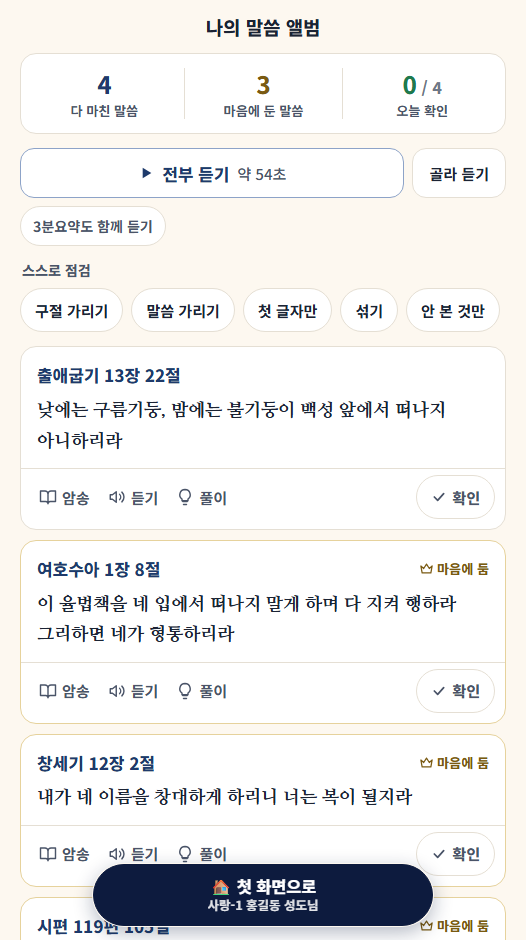
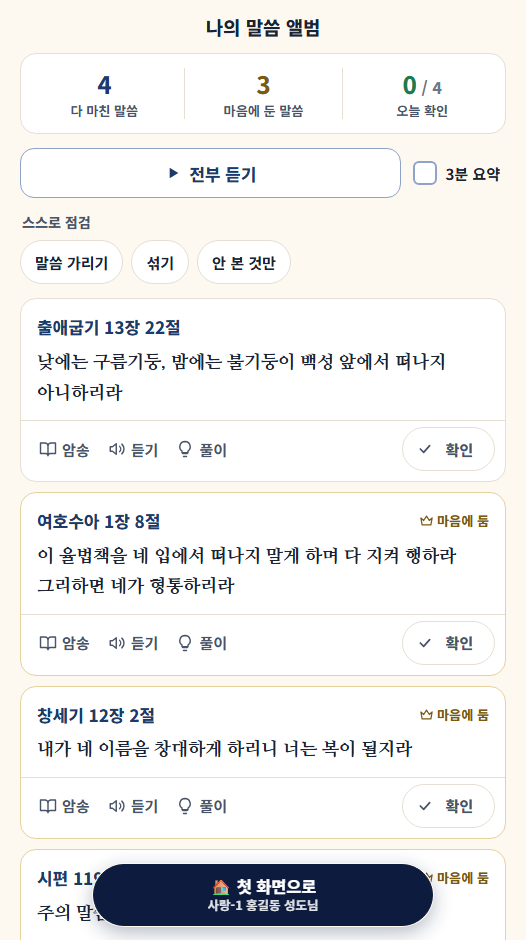
fix(앨범 A안): 단추는 늘 한 줄 · 구절 가리기·첫 글자만·골라 듣기·「약 N분」 뺌 · 「☐ 3분 요약」 체크 상자(친구) — v3.618
- albumFitRow/albumFitAll: 그린 뒤 실제로 재서 넘치면 여백·아이콘 → 글씨 한 단계 → (그래도면) 접기
- 확인 칩은 「확인함」·「확인」을 한 칸에 겹쳐 폭을 고정
- 설명서·guide ⑦ 문장과 guide 앨범 사진을 새 모양으로
- 확인: 폭 5가지 × 글씨 3단계 × 켬/끔 22조건 — 세 줄 한 줄 · 넘침·잘림·오류 0

diff --git a/style.css b/style.css
@@ -6349,35 +6349,44 @@ html[data-fs="xl"] .nv-ch-sub { font-size: 1.04rem; }
 .album-a .aa-n small { font-size: 1rem; font-weight: 800; color: #6e7787; }
 .album-a .aa-stat-l { font-size: .82rem; font-weight: 600; line-height: 1.35; color: #4a5468; word-break: keep-all; }
 /* 듣기 줄 — 「전부 듣기」가 주인공(남색 테두리) · 옆에 「골라 듣기」 · 아래 작은 칩(3분요약 · 고르기 중엔 전체 선택/해제) */
-.album-a .aa-play-row { display: flex; gap: 8px; }
+.album-a .aa-play-row { display: flex; flex-wrap: nowrap; gap: 8px; }
+.album-a .aa-play-row.aa-wrap { flex-wrap: wrap; }
 .album-a .aa-go {
-  flex: 1 1 auto; min-width: 0; min-height: 50px; margin: 0; padding: 6px 12px;
+  flex: 1 0 auto; min-height: 50px; margin: 0; padding: 6px 12px; white-space: nowrap;
   border: 1.5px solid #8da3c8; border-radius: 14px; background: #fff; color: #1e3a6b;
   display: flex; flex-wrap: wrap; align-items: center; justify-content: center; column-gap: 8px; row-gap: 0;
   font-family: inherit; font-size: 1.06rem; font-weight: 800; cursor: pointer;
 }
 .album-a .aa-go:hover { background: #eaf0f9; }
 .album-a .aa-play-ic { width: 16px; height: 16px; flex: none; }
-.album-a .aa-go .ab-dur { font-size: .94rem; font-weight: 500; opacity: 1; color: #4a5468; }
-.album-a .aa-pick {
-  flex: none; min-height: 50px; margin: 0; padding: 0 16px;
-  border: 1px solid #e5dfd4; border-radius: 14px; background: #fff; color: #1b2333;
-  font-family: inherit; font-size: .94rem; font-weight: 700; cursor: pointer; white-space: nowrap;
+/* ☐ 3분 요약 — 「전부 듣기」 옆 체크 상자(친구 2026-10-13). 켜면 전부 듣기에 설교 3분요약을 끼워 넣는다(albumWithSummary · 이것만 저장) */
+.album-a .aa-sum {
+  flex: none; min-height: 50px; margin: 0; padding: 0 6px 0 4px; border: 0; background: transparent; color: #1b2333;
+  display: inline-flex; align-items: center; gap: 8px; font-family: inherit; font-size: .94rem; font-weight: 700; cursor: pointer; white-space: nowrap;
 }
-.album-a .aa-play-opts { display: flex; flex-wrap: wrap; gap: 8px; margin-top: 8px; }
-.album-a .aa-opt {
-  min-height: 40px; margin: 0; padding: 0 12px; border: 1px solid #e5dfd4; border-radius: 999px; background: #fff; color: #4a5468;
-  display: inline-flex; align-items: center; gap: 4px; font-family: inherit; font-size: .88rem; font-weight: 700; cursor: pointer; white-space: nowrap;
+.album-a .aa-box {
+  flex: none; width: 24px; height: 24px; border: 2px solid #8da3c8; border-radius: 6px; background: #fff;
+  display: inline-flex; align-items: center; justify-content: center; color: #fff;
 }
+.album-a .aa-box svg { width: 16px; height: 16px; stroke-width: 3.2; }
+.album-a .aa-sum.on .aa-box { background: #1e3a6b; border-color: #1e3a6b; }
+.album-a .aa-play-row.aa-tight .aa-go { padding: 0 10px; }
+.album-a .aa-play-row.aa-tighter .aa-sum { gap: 6px; padding: 0 2px; }
 /* 「스스로 점검」 — 켜면 남색 + ✓ (켬/끔은 색만이 아니라 ✓ 로도 가른다) */
 .album-a .aa-sec-title { margin: 0 0 8px; padding: 0 2px; font-size: .88rem; font-weight: 800; color: #4a5468; }
-.album-a .aa-toggles { display: flex; flex-wrap: wrap; gap: 8px; }
+.album-a .aa-toggles { display: flex; flex-wrap: nowrap; gap: 8px; }
+.album-a .aa-toggles.aa-wrap { flex-wrap: wrap; }
+.album-a .aa-toggles .aa-tg { flex: none; }
+.album-a .aa-toggles.aa-tight { gap: 6px; }
+.album-a .aa-toggles.aa-tight .aa-tg { padding: 0 10px; }
+.album-a .aa-toggles.aa-tighter .aa-tg { padding: 0 7px; gap: 2px; font-size: .86rem; }
+.album-a .aa-toggles.aa-tighter .aa-tg svg { display: none; }   /* 켜짐은 바탕·테두리(밝기 차이)로도 보인다 */
 .album-a .aa-tg {
   min-height: 44px; margin: 0; padding: 0 14px; border: 1.5px solid #e5dfd4; border-radius: 999px; background: #fff; color: #1b2333;
   display: inline-flex; align-items: center; gap: 4px; font-family: inherit; font-size: .94rem; font-weight: 700; cursor: pointer; white-space: nowrap;
 }
-.album-a .aa-tg.on, .album-a .aa-pick.on, .album-a .aa-opt.on { border-color: #1e3a6b; background: #eaf0f9; color: #1e3a6b; }
-.album-a .aa-tg svg, .album-a .aa-opt svg { width: 15px; height: 15px; stroke-width: 3; flex: none; }
+.album-a .aa-tg.on { border-color: #1e3a6b; background: #eaf0f9; color: #1e3a6b; }
+.album-a .aa-tg svg { width: 15px; height: 15px; stroke-width: 3; flex: none; }
 .album-a .aa-hint { margin: 0; padding: 0 2px; font-size: .94rem; line-height: 1.5; color: #4a5468; word-break: keep-all; }
 /* 카드 */
 .album-a .album-grid { gap: 10px; margin: 0; }
@@ -6405,18 +6414,15 @@ html[data-fs="xl"] .nv-ch-sub { font-size: 1.04rem; }
 }
 /* 가린 곳 — 흐림 대신 점선 칸(시안 A). 카드를 누르거나(.peek) 확인하면(.checked) 다시 보인다 */
 .album-a .aa-ph { display: none; }
-.album-a .aa-ref-ph { width: 150px; max-width: 60%; height: 24px; border-radius: 6px; border: 1.5px dashed #6e7787; }
 .album-a .aa-text-ph {
   margin: 8px 16px 12px; min-height: 56px; padding: 6px 10px; border-radius: 10px; border: 1.5px dashed #6e7787;
   align-items: center; justify-content: center; text-align: center; font-size: .94rem; line-height: 1.5; color: #4a5468; word-break: keep-all;
 }
-.album-a .album-grid.hide-ref .album-card:not(.peek):not(.checked) .album-ref,
 .album-a .album-grid.hide-text .album-card:not(.peek):not(.checked) .album-text { display: none; }
-.album-a .album-grid.hide-ref .album-card:not(.peek):not(.checked) .aa-ref-ph { display: block; }
 .album-a .album-grid.hide-text .album-card:not(.peek):not(.checked) .aa-text-ph { display: flex; }
 /* 도구 줄 — 암송 · 듣기 · 풀이(글 단추) ……… 확인(알약) */
 .album-a .album-tools {
-  display: flex; flex-wrap: wrap; align-items: center; gap: 2px;
+  display: flex; flex-wrap: nowrap; align-items: center; gap: 2px;
   margin: 0; padding: 6px 10px 10px; border-top: 1px solid #e5dfd4;
 }
 .album-a .album-go, .album-a .album-listen, .album-a .album-why {
@@ -6431,6 +6437,18 @@ html[data-fs="xl"] .nv-ch-sub { font-size: 1.04rem; }
   display: inline-flex; align-items: center; gap: 5px; font-size: .94rem; font-weight: 800; white-space: nowrap;
 }
 .album-a .album-check svg { width: 16px; height: 16px; stroke-width: 2.6; }
+.album-a .album-tools > span { flex: none; }
+/* 「확인함」·「확인」을 한 칸에 겹쳐 하나만 보인다 — 칩 폭이 늘 같다(눌러도 줄이 안 밀린다 · albumFitRow 가 첫 카드로 잰다) */
+.album-a .aa-ck-w { display: inline-grid; }
+.album-a .aa-ck-w > span { grid-area: 1 / 1; text-align: center; }
+.album-a .album-check:not(.on) .aa-ck-a, .album-a .album-check.on .aa-ck-b { visibility: hidden; }
+/* 자리가 모자라면(albumFitRow) — 암송·듣기·풀이 아이콘부터 빼고 → 글씨 한 단계 · 확인 아이콘 → 그래도면 접는다 */
+.album-a .album-grid.aa-tight .album-go svg, .album-a .album-grid.aa-tight .album-listen svg, .album-a .album-grid.aa-tight .album-why svg { display: none; }
+.album-a .album-grid.aa-tight .album-go, .album-a .album-grid.aa-tight .album-listen, .album-a .album-grid.aa-tight .album-why { padding: 0 6px; }
+.album-a .album-grid.aa-tighter .album-check svg { display: none; }
+.album-a .album-grid.aa-tighter .album-tools > span { font-size: .86rem; }
+.album-a .album-grid.aa-tighter .album-check { padding: 0 10px; }
+.album-a .album-grid.aa-wrap .album-tools { flex-wrap: wrap; }
 .album-a .album-check:hover { background: #f4efe6; }
 .album-a .album-check.on, .album-a .album-check.on:hover { border-color: #1f7a4d; background: #e6f4ec; color: #1f7a4d; }
 .album-a .album-why-body { margin: 0 16px 14px; }
@@ -6442,15 +6460,17 @@ html[data-fs="lg"] .album-a .album-ref, html[data-fs="lg"] .album-a .aa-go { fon
 html[data-fs="xl"] .album-a .album-ref, html[data-fs="xl"] .album-a .aa-go { font-size: 1.28rem; }
 html[data-fs="lg"] .album-a .aa-title { font-size: 1.3rem; }
 html[data-fs="xl"] .album-a .aa-title { font-size: 1.42rem; }
-html[data-fs="lg"] .album-a .aa-tg, html[data-fs="lg"] .album-a .aa-pick, html[data-fs="lg"] .album-a .album-tools > span,
+html[data-fs="lg"] .album-a .aa-tg, html[data-fs="lg"] .album-a .aa-sum, html[data-fs="lg"] .album-a .album-tools > span,
 html[data-fs="lg"] .album-a .aa-hint, html[data-fs="lg"] .album-a .aa-text-ph { font-size: 1.02rem; }
-html[data-fs="xl"] .album-a .aa-tg, html[data-fs="xl"] .album-a .aa-pick, html[data-fs="xl"] .album-a .album-tools > span,
+html[data-fs="xl"] .album-a .aa-tg, html[data-fs="xl"] .album-a .aa-sum, html[data-fs="xl"] .album-a .album-tools > span,
 html[data-fs="xl"] .album-a .aa-hint, html[data-fs="xl"] .album-a .aa-text-ph { font-size: 1.12rem; }
-html[data-fs="lg"] .album-a .aa-stat-l, html[data-fs="lg"] .album-a .aa-heart, html[data-fs="lg"] .album-a .aa-opt { font-size: .94rem; }
-html[data-fs="xl"] .album-a .aa-stat-l, html[data-fs="xl"] .album-a .aa-heart, html[data-fs="xl"] .album-a .aa-opt { font-size: 1.02rem; }
+html[data-fs="lg"] .album-a .aa-stat-l, html[data-fs="lg"] .album-a .aa-heart { font-size: .94rem; }
+html[data-fs="xl"] .album-a .aa-stat-l, html[data-fs="xl"] .album-a .aa-heart { font-size: 1.02rem; }
 /* 아주 크게 — 도구 줄 여백을 줄여 360px 에서도 「확인」이 한 줄에 남게 */
 html[data-fs="xl"] .album-a .album-go, html[data-fs="xl"] .album-a .album-listen, html[data-fs="xl"] .album-a .album-why { padding: 0 5px; gap: 4px; }
 html[data-fs="xl"] .album-a .album-check { padding: 0 11px; }
+html[data-fs="lg"] .album-a .aa-toggles.aa-tighter .aa-tg, html[data-fs="lg"] .album-a .album-grid.aa-tighter .album-tools > span { font-size: .94rem; }
+html[data-fs="xl"] .album-a .aa-toggles.aa-tighter .aa-tg, html[data-fs="xl"] .album-a .album-grid.aa-tighter .album-tools > span { font-size: 1.02rem; }
 html[data-fs="lg"] .album-a .aa-n { font-size: 1.65rem; }
 html[data-fs="xl"] .album-a .aa-n { font-size: 1.8rem; }
 /* 어두운 모드 — 시안 A 의 어두운 판(첫 화면 A안 .ha-* 와 같은 값) */
@@ -6465,10 +6485,11 @@ html[data-fs="xl"] .album-a .aa-n { font-size: 1.8rem; }
 .dark .album-a .aa-stat-l, .dark .album-a .aa-sec-title, .dark .album-a .aa-hint, .dark .album-a .album-empty { color: #b9c0cd; }
 .dark .album-a .aa-go { background: #212938; border-color: #4a6597; color: #9dbbea; }
 .dark .album-a .aa-go:hover { background: #22304a; }
-.dark .album-a .aa-go .ab-dur { color: #b9c0cd; }
-.dark .album-a .aa-pick, .dark .album-a .aa-tg { background: #212938; border-color: #313a4a; color: #f1eee7; }
-.dark .album-a .aa-opt { background: #212938; border-color: #313a4a; color: #b9c0cd; }
-.dark .album-a .aa-tg.on, .dark .album-a .aa-pick.on, .dark .album-a .aa-opt.on { background: #22304a; border-color: #9dbbea; color: #9dbbea; }
+.dark .album-a .aa-tg { background: #212938; border-color: #313a4a; color: #f1eee7; }
+.dark .album-a .aa-sum { color: #f1eee7; }
+.dark .album-a .aa-box { background: #212938; border-color: #4a6597; }
+.dark .album-a .aa-sum.on .aa-box { background: #9dbbea; border-color: #9dbbea; color: #0f1218; }
+.dark .album-a .aa-tg.on { background: #22304a; border-color: #9dbbea; color: #9dbbea; }
 .dark .album-a .album-card { background: #212938; border-color: #313a4a; color: #f1eee7; }
 .dark .album-a .album-card:hover { border-color: #46587c; }
 .dark .album-a .album-card.hearted { background: #212938; border-color: #5c4c22; }
@@ -6478,7 +6499,7 @@ html[data-fs="xl"] .album-a .aa-n { font-size: 1.8rem; }
 .dark .album-a .album-ref { color: #9dbbea; }
 .dark .album-a .album-text { color: #f1eee7; }
 .dark .album-a .aa-heart { color: #e9cd7e; }
-.dark .album-a .aa-ref-ph, .dark .album-a .aa-text-ph { border-color: #949dad; }
+.dark .album-a .aa-text-ph { border-color: #949dad; }
 .dark .album-a .aa-text-ph { color: #b9c0cd; }
 .dark .album-a .album-tools { border-top-color: #313a4a; }
 .dark .album-a .album-go, .dark .album-a .album-listen, .dark .album-a .album-why { background: transparent; color: #b9c0cd; }

diff --git a/app.js b/app.js
@@ -6,7 +6,7 @@
 
 // 이 파일의 빌드 번호 — index.html의 app.js?v= 와 반드시 같아야 한다.
 // (tools/bump.py가 둘을 함께 올린다)
-const APP_BUILD = "20261013x";
+const APP_BUILD = "20261013y";
 
 // 배포 직후 CDN이 아직 옛 app.js를 내보내면, 브라우저는 그 옛 내용을 '새 주소'
 // 아래 캐시해 버린다. 주소가 다시 바뀌기 전까지(최대 10분) 옛 화면이 남는 이유다.
@@ -9068,7 +9068,7 @@ const MANUAL = [
       "요절을 먼저 부르고, 잠깐 쉰 뒤 다음 말씀으로 넘어가요.",
       "듣는 동안 <b>화면이 저절로 꺼지지 않아요.</b>",
     ],
-    tip: "「나의 말씀 앨범」에서 <b>3분요약도 함께 듣기</b>를 켜면 설교 <b>3분요약</b>도 이어서 들려 드려요.",
+    tip: "「나의 말씀 앨범」에서 <b>전부 듣기</b> 옆 <b>3분 요약</b>에 체크하면 설교 <b>3분요약</b>도 이어서 들려 드려요.",
   },
   {
     icon: "🎤", title: "소리 내어 암송하기",
@@ -9100,7 +9100,7 @@ const MANUAL = [
     steps: [
       "<b>📖 말씀 암송</b>에서 3단계까지 마친 말씀은 첫 화면 <b>나의 말씀 앨범</b>에 모입니다.",
       "완전히 외우셨으면 3단계 화면의 <b>「이 말씀을 내 마음에 두었나이다」</b>에 체크하세요. <b>👑</b>가 달리고 다음부터 바로 3단계로 시작해요.",
-      "앨범의 <b>스스로 점검</b>에서 <b>구절 가리기 · 말씀 가리기</b>로 가리고 스스로 맞혀 볼 수 있어요. 맞혀 본 말씀은 <b>확인</b>을 누르세요.",
+      "앨범의 <b>스스로 점검</b>에서 <b>말씀 가리기</b>를 누르면 말씀을 가리고 스스로 맞혀 볼 수 있어요. 맞혀 본 말씀은 <b>확인</b>을 누르세요.",
     ],
     tip: "앨범에서도 <b>▶ 전부 듣기</b>로 이어서 들을 수 있어요.",
   },
@@ -10443,16 +10443,42 @@ function albumFind(no) {
   return verses.find((x) => x.no === no) || (psalmVerses || []).find((x) => x.no === no) || null;
 }
 
+// A안 — 단추 줄은 늘 한 줄(친구 2026-10-13 「버튼 한줄로 나오게」). 줄이 넘치면 차례로 줄인다:
+//   .aa-tight(여백·아이콘) → .aa-tighter(글씨 한 단계 · ✓ 아이콘) → .aa-wrap(그래도 넘치면 접는다 — 잘리는 것보다 낫다).
+//   폭은 기기·글씨 크기(설정)·글꼴이 들어온 때마다 달라 CSS 만으로는 못 맞춘다 — 그린 뒤에 실제로 잰다.
+function albumFitRow(row, holder) {
+  if (!row) return;
+  holder = holder || row;
+  holder.classList.remove("aa-tight", "aa-tighter", "aa-wrap");
+  const over = () => row.scrollWidth > row.clientWidth + 1;
+  ["aa-tight", "aa-tighter", "aa-wrap"].some((c) => { if (!over()) return true; holder.classList.add(c); return false; });
+}
+function albumFitAll() {
+  const scr = document.querySelector(".album-a");
+  if (!scr) return;
+  albumFitRow(scr.querySelector(".aa-play-row"));
+  albumFitRow(scr.querySelector(".aa-toggles"));
+  // 카드 도구 줄은 모두 같은 꼴(확인 칩 폭도 같다 — .aa-ck-w)이라 첫 줄로 재고 격자 전체에 같은 표를 단다
+  const grid = scr.querySelector(".album-grid");
+  albumFitRow(grid && grid.querySelector(".album-tools"), grid);
+}
+window.addEventListener("resize", albumFitAll);   // 폰을 돌리거나 창 폭이 바뀌면(앨범이 안 열려 있으면 아무것도 안 한다)
+
 function renderAlbum() {
   const u = loadUser();
   const appEl = document.getElementById("app");
   const done = verses.filter((v) => getPassedStage(v.no) >= 3);   // 주간 말씀만(위 albumUnseenOnly 아래 ⚠ 「앨범은 주간 말씀만」)
   const hearted = done.filter((v) => isHearted(v.no));
+  const albumA = albumAActive();   // 시안 A 꼴(ALBUM_LAYOUT 위 주석) — 템플릿만 다르고 id·data-*·연결은 같다
+  // A안에서 뺀 셋(친구 2026-10-13 — 구절 가리기 · 첫 글자만 · 골라 듣기)은 늘 꺼 둔다(옛 앨범에서 켜 둔 값이 남지 않게)
+  if (albumA) { albumHideRef = false; albumHint = false; if (albumPickMode) { albumPickMode = false; albumPicks.clear(); } }
   const hiding = albumHideRef || albumHideText || albumHint;
   const checked = albumCheckedToday();
-  const albumA = albumAActive();   // 시안 A 꼴(ALBUM_LAYOUT 위 주석) — 템플릿만 다르고 id·data-*·연결은 같다
-  // 확인 칩 글 — 처음 그릴 때와 누를 때(applyChecked) 같은 것을 쓴다(A안은 선 아이콘이라 innerHTML)
-  const checkLabel = (on) => albumA ? haSvg("check") + (on ? "확인함" : "확인") : (on ? "✅ 확인함" : "✓ 확인");
+  // 확인 칩 글 — 처음 그릴 때와 누를 때(applyChecked) 같은 것을 쓴다.
+  //   A안은 「확인함」·「확인」을 한 칸에 겹쳐 두고 하나만 보인다(.aa-ck-w) — 칩 폭이 늘 「확인함」이라 눌러도 줄이 안 밀린다
+  const checkLabel = (on) => albumA
+    ? haSvg("check") + '<span class="aa-ck-w"><span class="aa-ck-a">확인함</span><span class="aa-ck-b">확인</span></span>'
+    : (on ? "✅ 확인함" : "✓ 확인");
 
   // 기본 정렬: 오늘 확인하지 않은 것 먼저 → 그 안에서 최신(구절 번호 큰 것) 먼저.
   // 아직 볼 것이 위로 모여 스크롤 없이 이어서 할 수 있다.
@@ -10489,7 +10515,6 @@ function renderAlbum() {
       <button class="album-card${heart ? " hearted" : ""}${isChecked ? " checked" : ""}" data-no="${v.no}">
         <span class="aa-card-top">
           <span class="album-ref">${ref}</span>
-          <span class="aa-ph aa-ref-ph" aria-hidden="true"></span>
           ${heart ? `<span class="aa-heart">${haSvg("crown")}마음에 둠</span>` : ""}
         </span>
         ${pickHtml}
@@ -10526,8 +10551,8 @@ function renderAlbum() {
   const playItems = albumItemsFor(list);
   const playLabel = (items) => {
     const d = albumDurText(items);
-    if (albumA) return '<svg class="aa-play-ic" viewBox="0 0 24 24" fill="currentColor" aria-hidden="true" focusable="false"><path d="M7 4v16l13-8z"/></svg>' +
-      (albumPickMode ? items.length + "개 듣기" : "전부 듣기") + (d ? ' <span class="ab-dur">' + d + "</span>" : "");
+    // A안 — 「약 N분」은 뺐다(친구 2026-10-13)
+    if (albumA) return '<svg class="aa-play-ic" viewBox="0 0 24 24" fill="currentColor" aria-hidden="true" focusable="false"><path d="M7 4v16l13-8z"/></svg>전부 듣기';
     return (albumPickMode ? "▶ " + items.length + "개 듣기" : "▶ 전부 듣기") +
            (d ? ' <span class="ab-dur">' + d + "</span>" : "");
   };
@@ -10554,17 +10579,14 @@ function renderAlbum() {
       <div class="aa-play" id="ab-play">
         <div class="aa-play-row">
           <button type="button" id="ab-play-go" class="aa-go">${playLabel(playItems)}</button>
-          <button type="button" data-p="pick" class="aa-pick${albumPickMode ? " on" : ""}" aria-pressed="${albumPickMode}">골라 듣기</button>
+          <button type="button" data-p="sum" class="aa-sum${sumOn ? " on" : ""}" role="checkbox" aria-checked="${sumOn}"><span class="aa-box" aria-hidden="true">${sumOn ? haSvg("check") : ""}</span>3분 요약</button>
         </div>
-        <div class="aa-play-opts">${albumPickMode
-          ? `<button type="button" data-p="all" class="aa-opt">전체 선택</button><button type="button" data-p="none" class="aa-opt">모두 해제</button>`
-          : `<button type="button" data-p="sum" class="aa-opt${sumOn ? " on" : ""}" aria-pressed="${sumOn}">${sumOn ? haSvg("check") : ""}3분요약도 함께 듣기</button>`}</div>
       </div>` : ""}
       ${done.length ? `
       <div class="aa-quiz">
         <div class="aa-sec-title">스스로 점검</div>
         <div class="aa-toggles" id="ab-quiz">
-          ${quizBtn("ref", albumHideRef, "구절 가리기")}${quizBtn("text", albumHideText, "말씀 가리기")}${quizBtn("hint", albumHint, "첫 글자만")}${quizBtn("shuffle", !!albumOrder, "섞기")}${quizBtn("unseen", albumUnseenOnly, "안 본 것만")}
+          ${quizBtn("text", albumHideText, "말씀 가리기")}${quizBtn("shuffle", !!albumOrder, "섞기")}${quizBtn("unseen", albumUnseenOnly, "안 본 것만")}
         </div>
       </div>` : ""}
       ${hiding && list.length ? `<p class="aa-hint">가린 곳을 떠올려 보고, 카드를 눌러 확인하세요</p>` : ""}
@@ -10607,6 +10629,11 @@ function renderAlbum() {
     <button class="home-fab" id="ab-back" aria-label="첫 화면으로">${homeFabLabel(u)}</button>`;
 
   window.scrollTo(0, 0); // 첫 화면에서 내려온 위치가 남아 중간부터 보이던 문제
+  if (albumA) {
+    albumFitAll();
+    // 글꼴(Noto Sans KR)은 늦게 들어온다(index.html media=print) — 들어오면 폭이 바뀌니 한 번 더 잰다
+    try { document.fonts.ready.then(albumFitAll); } catch (e) {}
+  }
   if (albumPlayer) albumPlayFocus((albumPlayer.items[albumPlayer.i] || {}).no);
   document.getElementById("ab-back").addEventListener("click", () => { albumPlayStop(); renderSummary(); });
   const aOff = document.getElementById("aa-off");   // A안 미리보기 끄기(이 기기만)

diff --git a/index.html b/index.html
@@ -65,7 +65,7 @@
   <link rel="preconnect" href="https://fonts.gstatic.com" crossorigin />
   <link href="https://fonts.googleapis.com/css2?family=Gowun+Batang:wght@400;700&family=Lora:wght@400;600;700&family=Nanum+Myeongjo:wght@400;700;800&family=Noto+Sans+KR:wght@400;500;700;800&display=swap" rel="stylesheet" media="print" onload="this.media='all'" />
   <noscript><link href="https://fonts.googleapis.com/css2?family=Gowun+Batang:wght@400;700&family=Lora:wght@400;600;700&family=Nanum+Myeongjo:wght@400;700;800&family=Noto+Sans+KR:wght@400;500;700;800&display=swap" rel="stylesheet" /></noscript>
-  <link rel="stylesheet" href="style.css?v=20261013x" />
+  <link rel="stylesheet" href="style.css?v=20261013y" />
 </head>
 <body>
   <!-- 앱 시작 스플래시 화면 -->
@@ -74,7 +74,7 @@
       <img id="splash-logo" src="img/logo-gocheok.png" alt="고척교회" />
       <div class="splash-title">오직 성경, 말씀이 답이다!</div>
       <div class="splash-sub">주의 말씀은 내 발에 등이요<br>내 길에 빛이니이다</div>
-      <div class="splash-ver">v3.617</div>
+      <div class="splash-ver">v3.618</div>
       <img class="splash-denom" src="logo3.png?v=20260702y" alt="대한예수교장로회총회" onerror="this.style.display='none'" />
     </div>
   </div>
@@ -107,11 +107,11 @@
     <p style="text-align:center;padding:40px">불러오는 중...</p>
   </main>
 
-  <script src="js/config.js?v=20261013x"></script>
-  <script src="js/api.js?v=20261013x"></script>
-  <script src="js/push.js?v=20261013x"></script>
-  <script src="js/psalm.js?v=20261013x"></script>
-  <script src="js/events.js?v=20261013x"></script>
-  <script src="app.js?v=20261013x"></script>
+  <script src="js/config.js?v=20261013y"></script>
+  <script src="js/api.js?v=20261013y"></script>
+  <script src="js/push.js?v=20261013y"></script>
+  <script src="js/psalm.js?v=20261013y"></script>
+  <script src="js/events.js?v=20261013y"></script>
+  <script src="app.js?v=20261013y"></script>
 </body>
 </html>

diff --git a/admin.html b/admin.html
@@ -74,7 +74,7 @@
     // 교회 어드민으로 옮긴 관리 화면은 여기서 걷었다 — 성도 정보(2026-10-09) · 이벤트 · 찬양 아카이브 · 내게 주시는 말씀 기록 · 사역관리(2026-10-13).
     //   남은 것(성경암송 관리 · 설교·찬양 관리)은 설교 실전 확인 뒤 마지막 걷기에(docs/notes/admin-migration.md).
     //   ⚠ 교회 어드민(admin.onlybible.kr)으로 가는 타일은 두지 않는다(2026-10-13 친구 — 그곳은 주소로 직접 들어간다).
-    { ic:"📖", title:"성경암송 관리", desc:"통계 · 알림발송 · 주간리포트 · 게시판", href:"admin-stats.html?v=20261013x" },
+    { ic:"📖", title:"성경암송 관리", desc:"통계 · 알림발송 · 주간리포트 · 게시판", href:"admin-stats.html?v=20261013y" },
     { ic:"⛪", title:"설교·찬양 관리", desc:"설교 올리기(두 단계) · 설교 목록 · 매일 묵상 · 담당자 — 담당자도 이 주소로", href:"admin-sermon.html" },
     { ic:"🎬", title:"환영 인트로 미리보기", desc:"첫 방문 인트로 4장 — 성도님 화면엔 영향 없음", href:"index.html?preview=intro" },
     { ic:"🙏", title:"축복 인사 미리보기", desc:"첫 로그인 축복 카드 — 로그인 상태에서 확인", href:"index.html?preview=blessing" },

diff --git a/guide/index.html b/guide/index.html
@@ -202,7 +202,7 @@ var STEPS = [
 
   { img:"shots/album.png", t:"⑦ 나의 말씀 앨범",
     s:"외운 말씀이 모이는 곳이에요.",
-    say:"3단계까지 마친 말씀이 여기 모여요. <b>스스로 점검</b>에서 구절이나 말씀을 <b>가리고</b> 스스로 맞혀 볼 수 있고, <b>▶ 전부 듣기</b>로 이어서 들을 수도 있습니다." },
+    say:"3단계까지 마친 말씀이 여기 모여요. <b>스스로 점검</b>에서 말씀을 <b>가리고</b> 스스로 맞혀 볼 수 있고, <b>▶ 전부 듣기</b>로 이어서 들을 수도 있습니다." },
 
   { img:"shots/settings.png", t:"⑧ 글씨 크게 하기", tap:{x:50,y:50},
     s:"잘 안 보이시면 키우세요.",

diff --git a/docs/notes/album-audio.md b/docs/notes/album-audio.md
@@ -23,4 +23,4 @@
 
 ## 2026-10-13 — 앨범 A안(디자인 개편 · 모두에게)
 화면 모양만 바뀌었다(`renderAlbum` 의 `albumA` · `docs/notes/design-refresh.md` 「나의 말씀 앨범 A안」). 이어 듣기 규칙(보이는 순서 = 재생 목록 · 2초 쉼 · 3분요약 MP3 · 화면 깨우기 · `_ttsGen`)은 그대로다.
-단추 이름이 바뀌었다: ☑ 고르기 → **골라 듣기** · 📄 요약 함께 → **3분요약도 함께 듣기**(작은 칩) · 해제 → 모두 해제 · ▶ 전부 듣기 → ▶ 전부 듣기(선 아이콘). 이 문서 위쪽의 옛 이름은 지난 기록이다.
+단추 이름이 바뀌었다: 📄 요약 함께 → **☐ 3분 요약**(「전부 듣기」 옆 체크 상자) · ▶ 전부 듣기 → ▶ 전부 듣기(선 아이콘 · 「약 N분」은 뺐다). **☑ 고르기(말씀·3분요약을 카드마다 골라 담기)는 A안에서 뺐다**(친구 2026-10-13 — 코드는 옛 앨범 꼴에 남아 있다 · `albumPickMode` 는 A안에서 늘 끔). 이 문서 위쪽의 옛 이름은 지난 기록이다.
